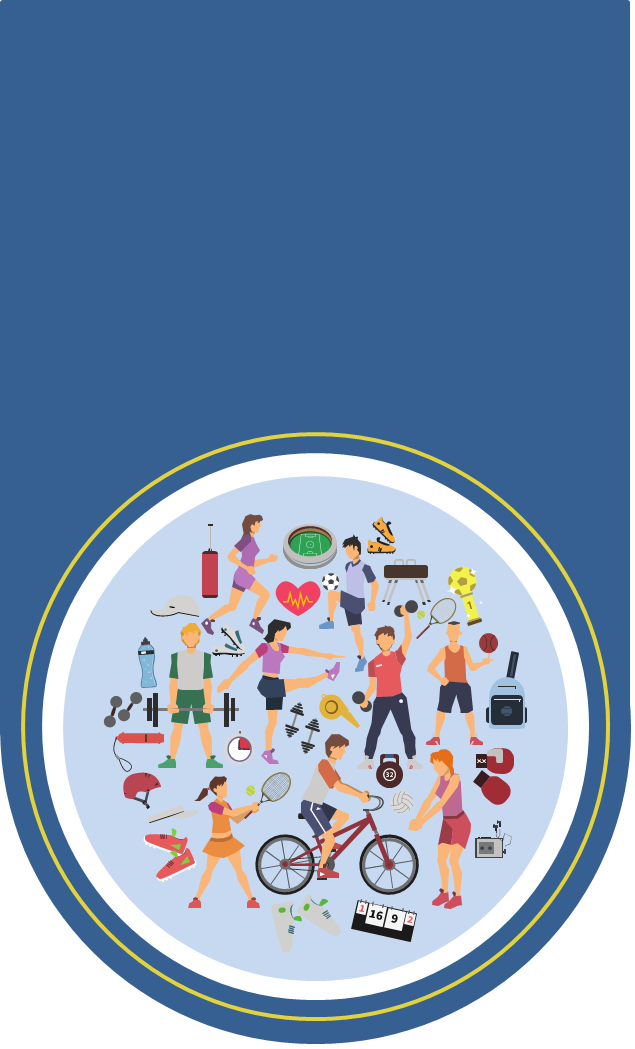
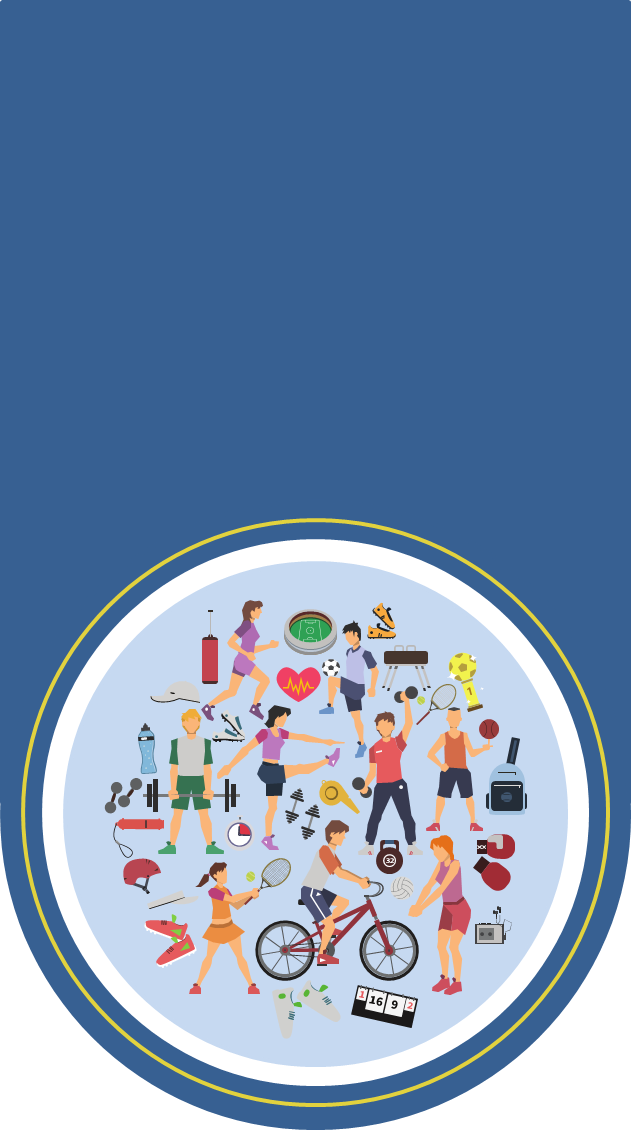
메인페이지에 넣을 그림 추가. 수정예정

Changed region(s): [[0.0, 0.0, 1.0, 1.0]]

diff --git a/src/main/webapp/resources/js/index.js b/src/main/webapp/resources/js/index.js
@@ -24,7 +24,7 @@ $(function() {
 
 	var myFullpage = new fullpage('#fullpage', {
 	    anchors: ['firstPage', 'secondPage', 'thirdPage'],
-	    sectionsColor: ['#C63D0F', '#1BBC9B', '#7E8F7C'],
+		verticalCentered: false,
 	    navigation: true,
 	    navigationPosition: 'right',
 	    navigationTooltips: ['첫번째 페이지', '두번째 페이지', '세번째 페이지'],

diff --git a/src/main/webapp/resources/fullPage/fullpage.css b/src/main/webapp/resources/fullPage/fullpage.css
@@ -187,7 +187,7 @@ html.fp-enabled,
 #fp-nav ul li .fp-tooltip {
     position: absolute;
     top: -2px;
-    color: #fff;
+    color: black;
     font-size: 14px;
     font-family: arial, helvetica, sans-serif;
     white-space: nowrap;

diff --git a/src/main/webapp/resources/css/index.css b/src/main/webapp/resources/css/index.css
@@ -39,11 +39,4 @@
 	display:none;
 }
 
-.section{
-	text-align: center;
-	}
-
-
-
-
 </style>
